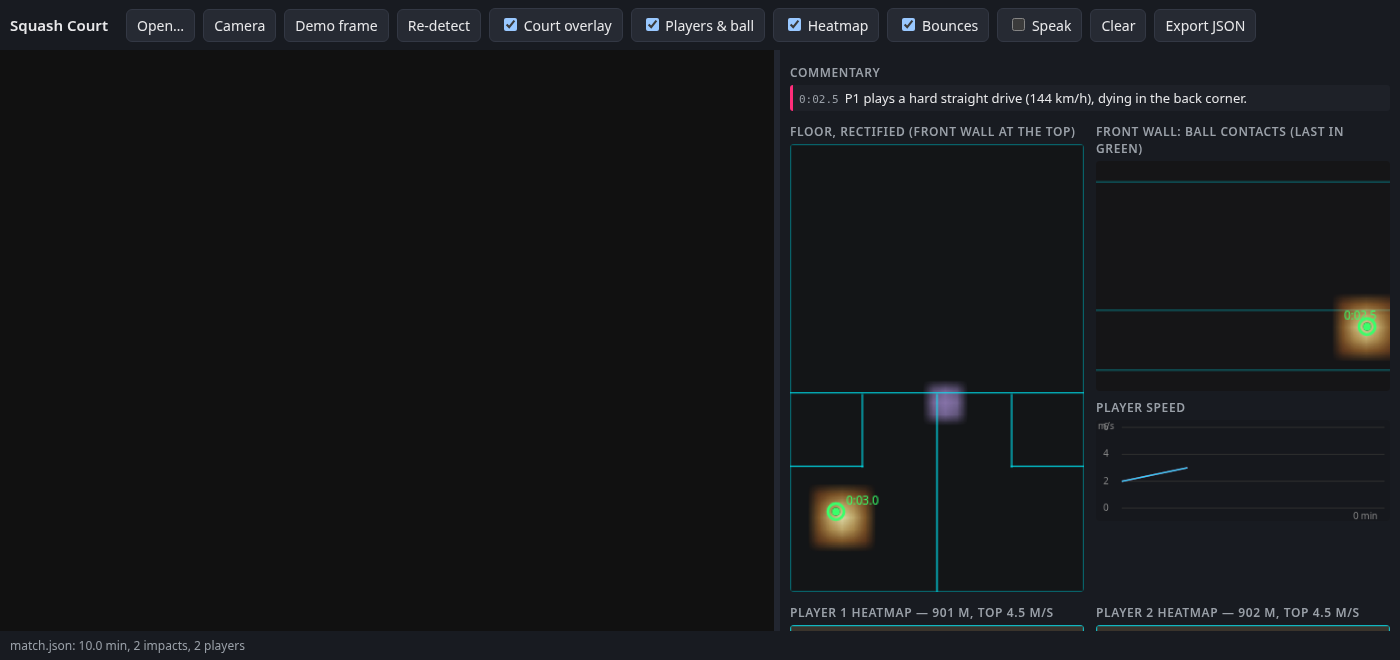
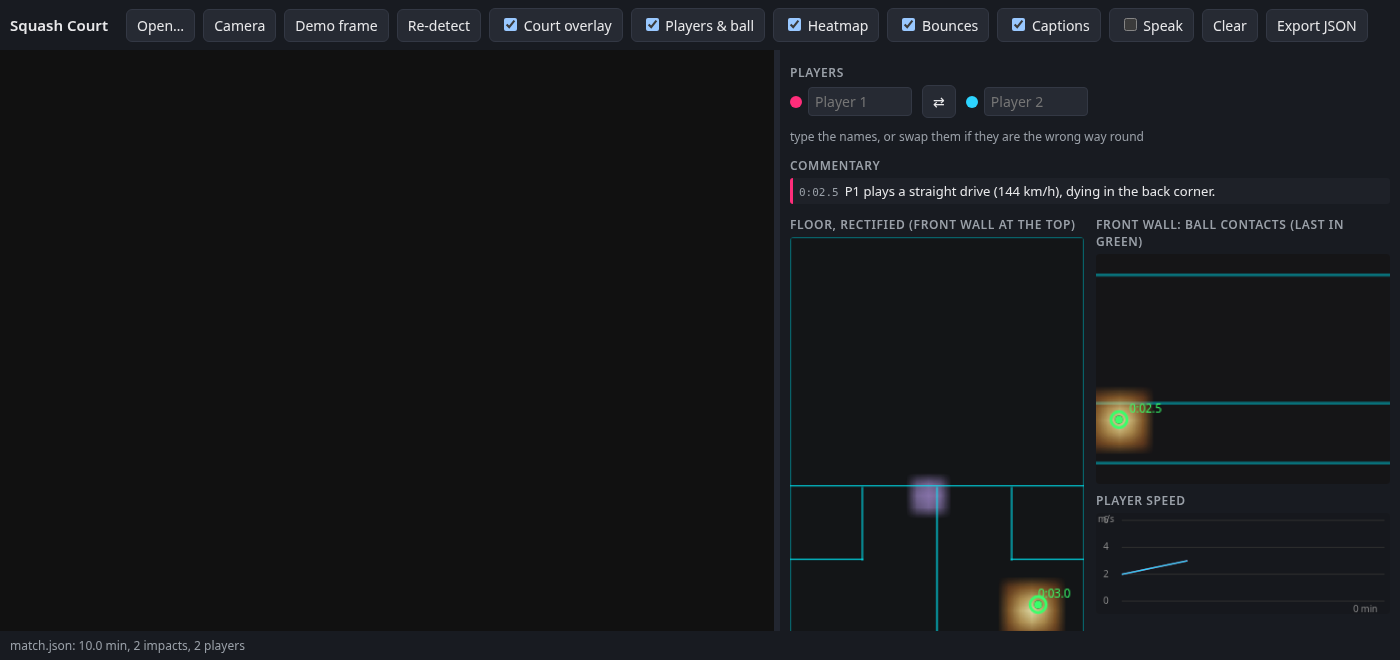
Squash Court: player names, commentary captions, time slider, unmirrored plan

diff --git a/vibes/squash-court/app.js b/vibes/squash-court/app.js
@@ -31,7 +31,7 @@ const S = {
   live: false, procFrame: null, sound: true,
   // players and ball (rally.js in the worker): players [{ id, X, seen, occluded, box }], the live
   // ball pixel, and fitted flights { t0, t1, pts: [{ t, X }], uv, impacts, labels, speed }
-  showRally: true, showHeat: true, showBounces: true, bounces: new Bounces(), comm: new Commentary(), feed: [], speak: false, moveSaid: {}, players: [], ball: null, ballTrail: [], flights: [], rallyMs: {},
+  showRally: true, showHeat: true, showBounces: true, captions: true, bounces: new Bounces(), comm: new Commentary(), feed: [], speak: false, moveSaid: {}, players: [], ball: null, ballTrail: [], flights: [], rallyMs: {},
 };
 // Per player: recent positions (speed), distance covered and time spent per 25 cm floor cell
 // (the heatmap). Kept in the page, fed by the players worker's tracked positions.
@@ -80,7 +80,15 @@ function playersAt(t, X) {
 // Shots are (re)built from the main camera's flights whenever the flight window changes; each
 // keeps its id, so a refit rewrites its line in place instead of adding another. Shots with
 // little evidence behind them (an inferred wall contact and few frames) are shown faded.
-const nameOf = (id) => `P${id}`;
+// Names typed in the Players panel (kept per video file); P1 / P2 until then.
+S.names = { 1: '', 2: '' };
+const nameOf = (id) => (S.names[id] || '').trim() || `P${id}`;
+function setNames(n, note) {
+  S.names = { 1: n[1] ?? '', 2: n[2] ?? '' }; for (const i of [1, 2]) if ($(`name${i}`).value !== S.names[i]) $(`name${i}`).value = S.names[i]; // never under the cursor while typing
+  if (note != null) $('nameNote').textContent = note;
+  if (S.srcName) localStorage.setItem('squashNames:' + S.srcName, JSON.stringify(S.names));
+  renderFeed(); draw();
+}
 function comment() {
   const fl = S.flights.filter((f) => mainView(f.cam));
   if (!fl.length) return;
@@ -88,9 +96,9 @@ function comment() {
   for (const s of changed) {
     if (s.quality < 2) continue;
     const text = describe(s, nameOf), o = S.feed.find((e) => e.id === s.id);
-    if (o) { if (o.text !== text) { o.text = text; o.player = s.player; o.sure = s.quality >= 3; } continue; }
-    S.feed.push({ id: s.id, t: s.t, text, player: s.player, sure: s.quality >= 3, fresh: true });
-    if (S.speak && s.quality >= 3) say(text);
+    if (o) { o.shot = s; o.player = s.player; o.sure = s.quality >= 3; continue; }
+    S.feed.push({ id: s.id, t: s.t, shot: s, player: s.player, sure: s.quality >= 3, fresh: true });
+    if (s.quality >= 3) { if (S.speak) say(text); caption(text); }
   }
   S.feed.sort((a, b) => b.t - a.t); if (S.feed.length > 200) S.feed.length = 200;
   renderFeed();
@@ -100,10 +108,11 @@ function commentMoves() {
   for (const p of S.players) {
     if (!p.seen) continue;
     const st = S.stats[p.id], text = st && movement(p.id, p.X, st.speed, nameOf); if (!text) continue;
+    const id = p.id, X = p.X.slice(), v = st.speed, mk = () => movement(id, X, v, nameOf);
     const key = p.id + text.split(' corner')[0].slice(-10);
     if (t - (S.moveSaid[key] ?? -Infinity) < 6) continue; // once per corner visit
     S.moveSaid[key] = t;
-    S.feed.unshift({ id: `m${p.id}-${t}`, t, text, player: p.id, sure: true, fresh: true, move: true });
+    S.feed.unshift({ id: `m${p.id}-${t}`, t, mk, player: p.id, sure: true, fresh: true, move: true }); caption(text);
   }
   renderFeed();
 }
@@ -113,8 +122,15 @@ function renderFeed() {
   el.replaceChildren(...S.feed.slice(0, 60).map((e) => {
     const li = document.createElement('li'); li.className = (e.fresh ? 'new' : '') + (e.sure ? '' : ' maybe'); e.fresh = false;
     li.style.borderLeftColor = e.player ? PCOL[(e.player - 1) % PCOL.length] : '#666';
-    const t = document.createElement('span'); t.className = 't'; t.textContent = clock(e.t); li.append(t, e.text); return li;
+    const t = document.createElement('span'); t.className = 't'; t.textContent = clock(e.t); li.append(t, e.shot ? describe(e.shot, nameOf) : e.mk ? e.mk() : e.text); return li;
   }));
+}
+// Captions: the newest commentary line over the video for a few seconds (the feed keeps them all).
+let ccTimer = 0;
+function caption(text) {
+  if (!S.captions || !S.live) return;
+  const el = $('cc'); el.textContent = text; el.classList.remove('off');
+  clearTimeout(ccTimer); ccTimer = setTimeout(() => el.classList.add('off'), Math.max(3500, 60 * text.length));
 }
 function say(text) {
   if (!('speechSynthesis' in window)) return;
@@ -261,8 +277,9 @@ const pcol = (p) => PCOL[(p.id - 1) % PCOL.length];
 function useImage(el, w, h) {
   stopLive(); S.src = el; S.srcW = w; S.srcH = h; S.cam = null; S.picks = []; clearRally(); fitStage(); draw(); analyse('detect');
 }
+function loadNames() { let n = null; try { n = JSON.parse(localStorage.getItem('squashNames:' + S.srcName) || 'null'); } catch {} setNames(n ?? { 1: '', 2: '' }, n ? 'saved for this video' : 'type the names, or swap them if they are the wrong way round'); }
 function loadFile(file) {
-  const url = URL.createObjectURL(file);
+  const url = URL.createObjectURL(file); S.srcName = file.name;
   if (file.type.startsWith('video/')) {
     const v = document.createElement('video'); v.src = url; v.muted = !S.sound; v.playsInline = true; v.loop = true;
     v.onloadeddata = () => { useVideo(v); listen(url, v); }; return;
@@ -273,7 +290,12 @@ function loadFile(file) {
 function useVideo(v) {
   stopLive(); S.src = v; S.srcW = v.videoWidth; S.srcH = v.videoHeight; S.cam = null; S.picks = []; clearRally(); S.audio = null; S.match = null; S.live = true; fitStage();
   // with sound if wanted; a browser that refuses unmuted playback without a fresh gesture gets it muted
-  S.frameCb = watchFrames(v);
+  S.frameCb = watchFrames(v); if (!v.srcObject) loadNames();
+  // time slider: seeking starts the ball and the players' tracks afresh (a jump is not a flight)
+  const sc = $('scrub'); sc.hidden = !!v.srcObject || !isFinite(v.duration);
+  $('seek').max = v.duration || 1;
+  v.onseeking = () => { for (const R of rallyW) R.reset = true; S.ballTrail = []; S.ball = null; S.fails = 0; };
+  v.ondurationchange = () => { $('seek').max = v.duration || 1; sc.hidden = !!v.srcObject || !isFinite(v.duration); };
   v.play().catch(() => { v.muted = true; soundLabel(); v.play().catch(() => {}); });
   $('play').hidden = false; $('play').textContent = 'Pause';
   $('sound').hidden = !!v.srcObject; soundLabel();
@@ -287,12 +309,13 @@ async function useCamera() {
   } catch (e) { status(`camera: ${e.message}`); }
 }
 function stopLive() {
-  S.live = false; $('play').hidden = true; $('sound').hidden = true;
+  S.live = false; $('play').hidden = true; $('sound').hidden = true; $('scrub').hidden = true; $('cc').classList.add('off');
   if (S.src instanceof HTMLVideoElement) { S.src.pause(); S.src.srcObject?.getTracks().forEach((t) => t.stop()); }
 }
 function loop() {
   if (!S.live) return;
   draw();
+  if (!S.seeking && S.src instanceof HTMLVideoElement) { $('seek').value = S.src.currentTime; $('tlabel').textContent = `${clock(S.src.currentTime).slice(0, -2)} / ${clock(S.src.duration || 0).slice(0, -2)}`; }
   // a paused video is analysed once, not over and over
   const t = S.src.currentTime, fresh = !S.src.paused || t !== S.lastT || (!S.okay && S.fails < 3);
   if (!S.busy && S.src.readyState >= 2 && fresh) { S.lastT = t; analyse(S.cam && S.fails < 3 ? 'track' : 'detect'); }
@@ -372,7 +395,7 @@ function drawRallyStage(map, dpr) {
     for (let a = 0; a <= 24; a++) { const u = c.project([p.X[0] + 0.28 * Math.cos(a / 24 * 2 * Math.PI), p.X[1] + 0.28 * Math.sin(a / 24 * 2 * Math.PI), 0]); if (!(u[2] > 0)) continue; const [x, y] = map(u); first ? sctx.moveTo(x, y) : sctx.lineTo(x, y); first = false; }
     sctx.stroke(); sctx.setLineDash([]);
     const u = c.project([p.X[0], p.X[1], 0]); if (!(u[2] > 0)) continue; const [x, y] = map(u);
-    sctx.font = `${12 * dpr}px system-ui`; sctx.fillStyle = '#000a'; const sp = S.stats[p.id]?.speed, s = `P${p.id}  ${p.X[0].toFixed(2)}, ${p.X[1].toFixed(2)} m${sp > 0.3 ? `  ${sp.toFixed(1)} m/s` : ''}`;
+    sctx.font = `${12 * dpr}px system-ui`; sctx.fillStyle = '#000a'; const sp = S.stats[p.id]?.speed, s = `${nameOf(p.id)}  ${p.X[0].toFixed(2)}, ${p.X[1].toFixed(2)} m${sp > 0.3 ? `  ${sp.toFixed(1)} m/s` : ''}`;
     sctx.fillRect(x + 14 * dpr, y - 6 * dpr, sctx.measureText(s).width + 6 * dpr, 16 * dpr); sctx.fillStyle = pcol(p); sctx.fillText(s, x + 17 * dpr, y + 6 * dpr);
   }
   sctx.lineWidth = 2.5 * dpr;
@@ -404,27 +427,27 @@ function rectify(ctx, cnv, toWorld) {
 }
 function drawPlan() {
   const s = plan.width / CW; // px per metre; y down the court
-  rectify(pctx, plan, (x, y) => [x / s, y / s, 0]);
+  rectify(pctx, plan, (x, y) => [CW - x / s, y / s, 0]); // seen from above, facing the front wall: the right wall (x = 0) on the right
   pctx.strokeStyle = 'rgba(0,240,255,0.8)'; pctx.lineWidth = 1;
-  for (const l of MODEL.lines) if (l.kind === 'floor') { pctx.beginPath(); pctx.moveTo(l.a[0] * s, l.a[1] * s); pctx.lineTo(l.b[0] * s, l.b[1] * s); pctx.stroke(); }
+  for (const l of MODEL.lines) if (l.kind === 'floor') { pctx.beginPath(); pctx.moveTo((CW - l.a[0]) * s, l.a[1] * s); pctx.lineTo((CW - l.b[0]) * s, l.b[1] * s); pctx.stroke(); }
   pctx.strokeRect(0.5, 0.5, plan.width - 1, plan.height - 1);
-  for (const p of S.picks) if (p.surface === 'floor') { pctx.fillStyle = '#ff2d7a'; pctx.beginPath(); pctx.arc(p.X[0] * s, p.X[1] * s, 4, 0, 7); pctx.fill(); }
+  for (const p of S.picks) if (p.surface === 'floor') { pctx.fillStyle = '#ff2d7a'; pctx.beginPath(); pctx.arc((CW - p.X[0]) * s, p.X[1] * s, 4, 0, 7); pctx.fill(); }
   if (S.showHeat) drawHeat(s);
-  if (S.showBounces) { const F = S.bounces.on('floor'); drawBounces(pctx, F, CW, CL, s, (x, y) => [x * s, y * s], !S.showHeat, (m) => [m.X[0], m.X[1]]); if (F.length) { const L = F[F.length - 1]; ringLast(pctx, L, L.X[0] * s, L.X[1] * s); } }
+  if (S.showBounces) { const F = S.bounces.on('floor'); drawBounces(pctx, F, CW, CL, s, (x, y) => [(CW - x) * s, y * s], !S.showHeat, (m) => [m.X[0], m.X[1]]); if (F.length) { const L = F[F.length - 1]; ringLast(pctx, L, (CW - L.X[0]) * s, L.X[1] * s); } }
   if (S.showRally) {
     // the ball's ground track (shadow), floor bounces, players
     for (const f of recentFlights()) {
       pctx.strokeStyle = 'rgba(255,230,0,0.9)'; pctx.lineWidth = 1.5; pctx.beginPath();
-      f.pts.forEach((q, i) => (i ? pctx.lineTo(q.X[0] * s, q.X[1] * s) : pctx.moveTo(q.X[0] * s, q.X[1] * s))); pctx.stroke();
-      for (const m of f.impacts) { pctx.fillStyle = '#ff8a00'; pctx.beginPath(); pctx.arc(m.X[0] * s, m.X[1] * s, 3, 0, 7); pctx.fill(); }
+      f.pts.forEach((q, i) => (i ? pctx.lineTo((CW - q.X[0]) * s, q.X[1] * s) : pctx.moveTo((CW - q.X[0]) * s, q.X[1] * s))); pctx.stroke();
+      for (const m of f.impacts) { pctx.fillStyle = '#ff8a00'; pctx.beginPath(); pctx.arc((CW - m.X[0]) * s, m.X[1] * s, 3, 0, 7); pctx.fill(); }
     }
     for (const p of S.players) {
-      pctx.fillStyle = pcol(p); pctx.globalAlpha = p.seen ? 1 : 0.5; pctx.beginPath(); pctx.arc(p.X[0] * s, p.X[1] * s, 6, 0, 7); pctx.fill(); pctx.globalAlpha = 1;
-      pctx.fillStyle = '#000'; pctx.font = 'bold 9px system-ui'; pctx.fillText(String(p.id), p.X[0] * s - 2.5, p.X[1] * s + 3);
+      pctx.fillStyle = pcol(p); pctx.globalAlpha = p.seen ? 1 : 0.5; pctx.beginPath(); pctx.arc((CW - p.X[0]) * s, p.X[1] * s, 6, 0, 7); pctx.fill(); pctx.globalAlpha = 1;
+      pctx.fillStyle = '#000'; pctx.font = 'bold 9px system-ui'; pctx.fillText(String(p.id), (CW - p.X[0]) * s - 2.5, p.X[1] * s + 3);
     }
   }
   // where the camera stands, if it is on the plan
-  if (S.cam) { const C = S.cam.C; pctx.fillStyle = '#ffe600'; pctx.fillText(C[1] > CL ? `▼ camera ${(C[1] - CL).toFixed(1)} m behind` : '● camera', Math.max(4, Math.min(plan.width - 90, C[0] * s - 20)), Math.min(plan.height - 6, C[1] * s)); }
+  if (S.cam) { const C = S.cam.C; pctx.fillStyle = '#ffe600'; pctx.fillText(C[1] > CL ? `▼ camera ${(C[1] - CL).toFixed(1)} m behind` : '● camera', Math.max(4, Math.min(plan.width - 90, (CW - C[0]) * s - 20)), Math.min(plan.height - 6, C[1] * s)); }
 }
 // Heatmap: time each player spent per 25 cm cell, blurred, in the player's colour, each scaled to
 // its own busiest cell. Drawn small and scaled up, so the canvas smooths it.
@@ -444,10 +467,10 @@ function drawHeat(s) {
   }
   hc.putImageData(img, 0, 0);
   if (ids.length) { pctx.fillStyle = 'rgba(10,12,16,0.55)'; pctx.fillRect(0, 0, plan.width, plan.height); } // dim the floor so the heat reads
-  pctx.save(); pctx.imageSmoothingEnabled = true; pctx.globalAlpha = 0.9; pctx.drawImage(heatCnv, 0, 0, HX * HM * s, HY * HM * s); pctx.restore();
+  pctx.save(); pctx.imageSmoothingEnabled = true; pctx.globalAlpha = 0.9; pctx.translate(CW * s, 0); pctx.scale(-1, 1); pctx.drawImage(heatCnv, 0, 0, HX * HM * s, HY * HM * s); pctx.restore();
   // the court lines again on top
   pctx.strokeStyle = 'rgba(0,240,255,0.8)'; pctx.lineWidth = 1;
-  for (const l of MODEL.lines) if (l.kind === 'floor') { pctx.beginPath(); pctx.moveTo(l.a[0] * s, l.a[1] * s); pctx.lineTo(l.b[0] * s, l.b[1] * s); pctx.stroke(); }
+  for (const l of MODEL.lines) if (l.kind === 'floor') { pctx.beginPath(); pctx.moveTo((CW - l.a[0]) * s, l.a[1] * s); pctx.lineTo((CW - l.b[0]) * s, l.b[1] * s); pctx.stroke(); }
 }
 // Ball bounces: a heat ramp (clear → orange → pale yellow) scaled to the busiest cell, and a dot per
 // bounce (a ring when it was inferred from a flight ending on the floor rather than fitted inside
@@ -498,7 +521,8 @@ function useMatch(M, name) {
   for (const p of M.players) { const st = statFor(p.id); st.heat = Float32Array.from(p.heatmap.seconds); st.dist = p.distance; st.time = p.seconds; st.top = p.topSpeed; st.series = p.speed.map(([t, v]) => ({ t, v })); }
   S.bounces.list = M.bounces.map((m) => ({ t: m.t, X: [m.x, m.y, m.z], plane: m.plane, inferred: m.inferred, sound: m.sound, player: m.player }));
   S.comm.shots = (M.shots ?? []).map((s, i) => ({ ...s, id: i + 1, measured: s.quality >= 4 }));
-  S.feed = (M.shots ?? []).filter((s) => s.quality >= 2).map((s, i) => ({ id: i + 1, t: s.t, text: s.text, player: s.player, sure: s.quality >= 3 })).reverse(); renderFeed();
+  S.feed = (M.shots ?? []).filter((s) => s.quality >= 2).map((s, i) => ({ id: i + 1, t: s.t, text: s.text, shot: s.kind && s.front ? s : null, player: s.player, sure: s.quality >= 3 })).reverse();
+  S.srcName = 'match:' + M.source; loadNames(); renderFeed();
   status(`${name}: ${(M.duration / 60).toFixed(1)} min, ${M.bounces.length} impacts, ${M.players.length} players`); draw();
 }
 // One player's heatmap on a plain court: time per 25 cm cell, in the player's colour.
@@ -512,13 +536,13 @@ function drawPlayerHeat(cnv, id) {
     const hc = document.createElement('canvas'); hc.width = h.nx; hc.height = h.ny; const hx = hc.getContext('2d'), img = hx.createImageData(h.nx, h.ny);
     const rgb = [1, 3, 5].map((i) => parseInt(PCOL[(id - 1) % PCOL.length].slice(i, i + 2), 16));
     for (let i = 0; i < B.length; i++) { const a = B[i] / mx; if (a < 0.03) continue; const o = i * 4; img.data[o] = rgb[0]; img.data[o + 1] = rgb[1]; img.data[o + 2] = rgb[2]; img.data[o + 3] = Math.min(255, 40 + 215 * a); }
-    hx.putImageData(img, 0, 0); g.save(); g.imageSmoothingEnabled = true; g.drawImage(hc, 0, 0, h.nx * HM * s, h.ny * HM * s); g.restore();
-    if (title) title.textContent = `Player ${id} heatmap — ${st.dist.toFixed(0)} m, top ${st.top.toFixed(1)} m/s`;
-  } else if (title) title.textContent = `Player ${id} heatmap`;
+    hx.putImageData(img, 0, 0); g.save(); g.imageSmoothingEnabled = true; g.translate(CW * s, 0); g.scale(-1, 1); g.drawImage(hc, 0, 0, h.nx * HM * s, h.ny * HM * s); g.restore();
+    if (title) title.textContent = `${nameOf(id)} heatmap — ${st.dist.toFixed(0)} m, top ${st.top.toFixed(1)} m/s`;
+  } else if (title) title.textContent = `${nameOf(id)} heatmap`;
   g.strokeStyle = 'rgba(0,240,255,0.7)'; g.lineWidth = 1;
-  for (const l of MODEL.lines) if (l.kind === 'floor') { g.beginPath(); g.moveTo(l.a[0] * s, l.a[1] * s); g.lineTo(l.b[0] * s, l.b[1] * s); g.stroke(); }
+  for (const l of MODEL.lines) if (l.kind === 'floor') { g.beginPath(); g.moveTo((CW - l.a[0]) * s, l.a[1] * s); g.lineTo((CW - l.b[0]) * s, l.b[1] * s); g.stroke(); }
   g.strokeRect(0.5, 0.5, cnv.width - 1, cnv.height - 1);
-  const p = S.players.find((q) => q.id === id); if (p) { g.fillStyle = '#fff'; g.beginPath(); g.arc(p.X[0] * s, p.X[1] * s, 4, 0, 7); g.fill(); }
+  const p = S.players.find((q) => q.id === id); if (p) { g.fillStyle = '#fff'; g.beginPath(); g.arc((CW - p.X[0]) * s, p.X[1] * s, 4, 0, 7); g.fill(); }
 }
 function blurHeat(a, nx, ny) { let g = Float32Array.from(a); for (let p = 0; p < 2; p++) { const o = new Float32Array(g.length); for (let y = 0; y < ny; y++) for (let x = 0; x < nx; x++) { let v = 0, w = 0; for (let j = -1; j <= 1; j++) for (let i = -1; i <= 1; i++) { const X = x + i, Y = y + j; if (X < 0 || Y < 0 || X >= nx || Y >= ny) continue; const k = (i ? 0.5 : 1) * (j ? 0.5 : 1); v += g[Y * nx + X] * k; w += k; } o[y * nx + x] = v / w; } g = o; } return g; }
 // the most recent mark of a list, ringed in green with its time
@@ -529,14 +553,14 @@ function ringLast(ctx, m, px, py) {
 }
 function drawWall() {
   const s = wall.width / CW; // front wall, 0 … 5 m high
-  rectify(wctx, wall, (x, y) => [x / s, 0, (wall.height - y) / s]);
+  rectify(wctx, wall, (x, y) => [CW - x / s, 0, (wall.height - y) / s]); // facing it from the court: x = 0 on the right
   wctx.strokeStyle = 'rgba(0,240,255,0.8)';
   for (const l of MODEL.lines) if (l.kind === 'front') { const y = wall.height - l.a[2] * s; wctx.beginPath(); wctx.moveTo(0, y); wctx.lineTo(wall.width, y); wctx.stroke(); }
-  for (const p of S.picks) if (p.surface === 'front wall') { wctx.fillStyle = '#ff2d7a'; wctx.beginPath(); wctx.arc(p.X[0] * s, wall.height - p.X[2] * s, 4, 0, 7); wctx.fill(); }
+  for (const p of S.picks) if (p.surface === 'front wall') { wctx.fillStyle = '#ff2d7a'; wctx.beginPath(); wctx.arc((CW - p.X[0]) * s, wall.height - p.X[2] * s, 4, 0, 7); wctx.fill(); }
   // every front-wall contact (one per shot), coloured by hitter; the last one in green
   const C = S.showBounces ? contacts() : [];
-  if (C.length) { drawBounces(wctx, C, CW, wall.height / s, s, (x, z) => [x * s, wall.height - z * s], true, (m) => [m.X[0], m.X[2]]); const L = C[C.length - 1]; ringLast(wctx, L, L.X[0] * s, wall.height - L.X[2] * s); }
-  if (S.showRally) for (const f of recentFlights()) for (const m of f.impacts) if (m.plane === 'front') { wctx.fillStyle = '#ff8a00'; wctx.beginPath(); wctx.arc(m.X[0] * s, wall.height - m.X[2] * s, 4, 0, 7); wctx.fill(); }
+  if (C.length) { drawBounces(wctx, C, CW, wall.height / s, s, (x, z) => [(CW - x) * s, wall.height - z * s], true, (m) => [m.X[0], m.X[2]]); const L = C[C.length - 1]; ringLast(wctx, L, (CW - L.X[0]) * s, wall.height - L.X[2] * s); }
+  if (S.showRally) for (const f of recentFlights()) for (const m of f.impacts) if (m.plane === 'front') { wctx.fillStyle = '#ff8a00'; wctx.beginPath(); wctx.arc((CW - m.X[0]) * s, wall.height - m.X[2] * s, 4, 0, 7); wctx.fill(); }
 }
 // 3D overview rendered with the same camera class: court box, lines, the fitted camera's frustum.
 function draw3d() {
@@ -570,9 +594,9 @@ function readout() {
   if (S.match) {
     const M = S.match, fl = S.bounces.on('floor'), fr = S.bounces.on('front');
     el.textContent = [`match    ${M.source} — ${(M.duration / 60).toFixed(1)} min, court seen ${(M.courtSeconds / 60).toFixed(1)} min`,
-      ...M.players.map((p) => `player ${p.id} ${p.distance.toFixed(0)} m in ${(p.seconds / 60).toFixed(1)} min, top ${p.topSpeed.toFixed(1)} m/s${p.colour ? `, shirt rgb(${p.colour.map(Math.round).join(', ')})` : ''}`),
+      ...M.players.map((p) => `${nameOf(p.id).padEnd(8)} ${p.distance.toFixed(0)} m in ${(p.seconds / 60).toFixed(1)} min, top ${p.topSpeed.toFixed(1)} m/s${p.colour ? `, shirt rgb(${p.colour.map(Math.round).join(', ')})` : ''}`),
       `bounces  ${fl.length} on the floor (${fl.filter((m) => m.X[1] > 5.44).length} behind the short line), ${fr.length} on the front wall, ${S.bounces.list.filter((m) => m.sound).length} found by ear`,
-      ...M.players.map((p) => `         P${p.id} hit ${S.bounces.list.filter((m) => m.player === p.id).length}`)].join('\n');
+      ...M.players.map((p) => `         ${nameOf(p.id)} hit ${S.bounces.list.filter((m) => m.player === p.id).length}`)].join('\n');
     return;
   }
   if (!c) { el.textContent = S.src ? 'looking for the court…' : 'Open a photo or video of a squash court (or a match .json from tools/match.mjs), use the camera, or try a demo frame.'; return; }
@@ -587,11 +611,11 @@ function readout() {
     `time     ${S.ms ? Math.round(S.ms.wall) + ' ms' : ''}${hz ? `   tracking ${hz.toFixed(1)} fps` : ''}${S.live && S.path ? `   ${S.path}${S.mount === 'free' ? ', camera moving' : ', fixed mount'}` : ''}`,
   ];
   if (S.showRally || S.match) {
-    for (const p of S.players) { const st = S.stats[p.id]; lines.push(`player ${p.id} x ${p.X[0].toFixed(2)}  y ${p.X[1].toFixed(2)} m${p.occluded ? '  (feet hidden: from the head)' : ''}${p.seen ? '' : '  (coasting)'}`); if (st && S.live) lines.push(`         ${kmh(st.speed)}, top ${st.top.toFixed(1)} m/s, ${st.dist.toFixed(0)} m covered in ${st.time.toFixed(0)} s`); }
+    for (const p of S.players) { const st = S.stats[p.id]; lines.push(`${nameOf(p.id).padEnd(8)} x ${p.X[0].toFixed(2)}  y ${p.X[1].toFixed(2)} m${p.occluded ? '  (feet hidden: from the head)' : ''}${p.seen ? '' : '  (coasting)'}`); if (st && S.live) lines.push(`         ${kmh(st.speed)}, top ${st.top.toFixed(1)} m/s, ${st.dist.toFixed(0)} m covered in ${st.time.toFixed(0)} s`); }
     const bn = ballNow(); if (bn) lines.push(`ball now ${kmh(bn.speed)}`);
     if (S.bounces.list.length) { const fl = S.bounces.on('floor'), fr = S.bounces.on('front'); lines.push(`bounces  ${fl.length} on the floor${fl.length ? ` (${fl.filter((m) => m.X[1] > 5.44).length} behind the short line)` : ''}, ${fr.length} on the front wall`);
       const by = (id) => S.bounces.list.filter((m) => m.player === id && (m.plane === 'floor' || m.plane === 'front')).length, ids = [...new Set(S.bounces.list.map((m) => m.player).filter(Boolean))].sort();
-      if (ids.length) lines.push(`         shots by ${ids.map((id) => `P${id} ${by(id)}`).join(', ')}, ${S.bounces.list.filter((m) => !m.player).length} unknown`); }
+      if (ids.length) lines.push(`         shots by ${ids.map((id) => `${nameOf(id)} ${by(id)}`).join(', ')}, ${S.bounces.list.filter((m) => !m.player).length} unknown`); }
     if (S.audio) lines.push(S.audio.error ? `sound    not decoded (${S.audio.error})` : `sound    ${S.audio.on.length} impacts heard${S.audio.offset != null ? `, audio ${Math.round(S.audio.offset * 1000)} ms after picture (${S.audio.matched} matched, ${S.audio.chance} by chance)` : ', delay not known yet'}, ${S.bounces.list.filter((m) => m.sound).length} bounces found by ear`);
     const f = recentFlights().slice(-1)[0];
     if (f) { const a = f.pts[0].X, e = f.pts[f.pts.length - 1].X, v = (X) => `${X[0].toFixed(1)}, ${X[1].toFixed(1)}, ${X[2].toFixed(1)}`; lines.push(`ball     ${f.t0.toFixed(2)}–${f.t1.toFixed(2)} s  (${v(a)}) → (${v(e)}) m, ${(f.speed * 3.6).toFixed(0)} km/h off the hit${f.impacts.length ? '  hit ' + f.impacts.map((m) => m.plane).join(', ') : ''}`); }
@@ -636,6 +660,12 @@ $('export').onclick = exportJSON;
 // Clear: measured points and everything gathered so far (heatmaps, bounces, speeds, commentary);
 // a playing video starts gathering again from the current frame
 $('clear').onclick = () => { S.picks = []; const m = S.match; clearRally(); S.match = null; if (m && !S.src) S.cam = null; status('cleared'); draw(); };
+$('seek').addEventListener('input', (e) => { const v = S.src; if (!(v instanceof HTMLVideoElement)) return; S.seeking = true; v.currentTime = +e.target.value; $('tlabel').textContent = `${clock(v.currentTime).slice(0, -2)} / ${clock(v.duration || 0).slice(0, -2)}`; });
+$('seek').addEventListener('change', () => { S.seeking = false; });
+$('seek').addEventListener('pointerup', () => { S.seeking = false; });
+$('cap').onchange = (e) => { S.captions = e.target.checked; if (!S.captions) $('cc').classList.add('off'); };
+for (const i of [1, 2]) $(`name${i}`).addEventListener('input', (e) => { S.names[i] = e.target.value; setNames(S.names, ''); });
+$('swapNames').onclick = () => setNames({ 1: S.names[2], 2: S.names[1] }, 'swapped');
 $('speak').onchange = (e) => { S.speak = e.target.checked; if (!S.speak && 'speechSynthesis' in window) speechSynthesis.cancel(); };
 { // drag the side panel's edge to resize it (kept across reloads)
   const grip = $('grip'), set = (w) => { w = Math.max(300, Math.min(innerWidth - 320, w)); document.body.style.setProperty('--side', `${w}px`); localStorage.setItem('squashSide', w); };

diff --git a/vibes/squash-court/index.html b/vibes/squash-court/index.html
@@ -27,6 +27,17 @@
   #feed li.new { animation: flash 1.2s ease-out; }
   #feed li .t { color: var(--dim); font: 11px ui-monospace, monospace; margin-right: 6px; }
   #feed li.maybe { opacity: 0.6; }
+  #scrub { position: absolute; left: 0; right: 0; bottom: 0; display: flex; gap: 8px; align-items: center; padding: 6px 10px; background: linear-gradient(transparent, rgba(0,0,0,.75)); }
+  #scrub[hidden] { display: none; }
+  #seek { flex: 1; accent-color: var(--acc); }
+  #tlabel { font: 12px ui-monospace, monospace; color: #ddd; min-width: 11ch; text-align: right; }
+  #cc { position: absolute; left: 50%; bottom: 44px; transform: translateX(-50%); max-width: 80%; padding: 6px 12px; background: rgba(0,0,0,.78); color: #fff; font: 600 18px/1.35 system-ui; border-radius: 4px; text-align: center; pointer-events: none; transition: opacity .3s; }
+  #cc.off { opacity: 0; }
+  .names { display: flex; gap: 10px; flex-wrap: wrap; align-items: center; }
+  .names label { display: flex; gap: 6px; align-items: center; }
+  .names input { width: 13ch; background: #262a33; color: var(--fg); border: 1px solid #333844; border-radius: 4px; padding: 4px 6px; font: inherit; }
+  .sw { width: 12px; height: 12px; border-radius: 50%; display: inline-block; }
+  #nameNote { color: var(--dim); font-size: 12px; }
   @keyframes flash { from { background: #34404f; } to { background: #1e2128; } }
   aside h2 { font-size: 12px; text-transform: uppercase; letter-spacing: .05em; color: var(--dim); margin: 4px 0 0; font-weight: 600; }
   canvas.panel { width: 100%; background: #1e1e1e; border-radius: 4px; display: block; image-rendering: auto; }
@@ -52,13 +63,22 @@
   <label class="chk" title="Players' feet and the ball, in metres"><input id="rally" type="checkbox" checked> Players &amp; ball</label>
   <label class="chk" title="Where each player spent their time, on the floor plan"><input id="heat" type="checkbox" checked> Heatmap</label>
   <label class="chk" title="Where the ball bounced on the floor and hit the front wall"><input id="bounces" type="checkbox" checked> Bounces</label>
+  <label class="chk" title="Show the commentary as captions over the video"><input id="cap" type="checkbox" checked> Captions</label>
   <label class="chk" title="Read the commentary aloud"><input id="speak" type="checkbox"> Speak</label>
   <button id="clear" title="Clear measured points, heatmaps, bounces, speeds and commentary">Clear</button>
   <button id="export">Export JSON</button>
 </header>
-<div id="wrap"><canvas id="stage" aria-label="Frame with the fitted court drawn over it; click to measure a point on the court"></canvas></div>
+<div id="wrap"><canvas id="stage" aria-label="Frame with the fitted court drawn over it; click to measure a point on the court"></canvas>
+  <div id="cc" class="off" aria-hidden="true"></div>
+  <div id="scrub" hidden><input id="seek" type="range" min="0" max="1" step="0.04" value="0" aria-label="Video position"><span id="tlabel">0:00 / 0:00</span></div>
+</div>
 <div id="grip" role="separator" aria-orientation="vertical" aria-label="Resize the side panel" tabindex="0"></div>
 <aside>
+  <figure class="wide"><h2>Players</h2><div class="names">
+    <label><span class="sw" style="background:#ff2d7a"></span><input id="name1" placeholder="Player 1" aria-label="Player 1 name"></label>
+    <button id="swapNames" title="Swap the two names">⇄</button>
+    <label><span class="sw" style="background:#2dd4ff"></span><input id="name2" placeholder="Player 2" aria-label="Player 2 name"></label>
+    <span id="nameNote"></span></div></figure>
   <figure class="wide"><h2>Commentary</h2><ol id="feed" aria-live="polite"></ol></figure>
   <figure><h2>Floor, rectified (front wall at the top)</h2><canvas id="plan" class="panel" width="256" height="390"></canvas></figure>
   <figure><h2>Front wall: ball contacts (last in green)</h2><canvas id="wall" class="panel" width="256" height="200"></canvas>

diff --git a/vibes/squash-court/smoke.js b/vibes/squash-court/smoke.js
@@ -88,8 +88,15 @@ const check = (name, ok, extra = '') => { console.log(`${ok ? 'ok  ' : 'FAIL'} $
     check('video: bounces collected, ball fed from every video frame', bb.n[0] >= 1 && bb.n[1] >= 1 && bb.fed >= 1, `floor ${bb.n[0]}, front ${bb.n[1]}, ${bb.fed} frames to the ball worker`);
     check('video: players and ball run in their own workers', vp.n > 0 && vp.ms != null && vp.mb != null, `${vp.n} players ${JSON.stringify(vp.X)}, players ${Math.round(vp.ms)} ms, ball ${Math.round(vp.mb)} ms a frame`);
     await shot('video');
+    // the time slider seeks, and typed names reach the labels and the commentary
+    const sk = await b.evaluate(`(async()=>{const v=__sq.src,s=document.getElementById('seek');const shown=!document.getElementById('scrub').hidden;v.pause();s.value=0.5;s.dispatchEvent(new Event('input'));s.dispatchEvent(new Event('change'));await new Promise(r=>setTimeout(r,400));return {shown,t:v.currentTime,max:+s.max}})()`);
+    check('time slider seeks the video', sk.shown && Math.abs(sk.t - 0.5) < 0.1 && sk.max > 1, JSON.stringify(sk));
+    await b.evaluate(`(()=>{const i=document.getElementById('name1');i.value='Elias';i.dispatchEvent(new Event('input'));return 1})()`);
     // commentary feed fills from shots, and Clear empties heatmaps, bounces and the feed
     await b.evaluate(`(()=>{const S=__sq;S.comm.update([{t0:0.2,t1:0.9,cam:[3,17,4],impacts:[{t:0.4,X:[5.9,0.02,1.4],plane:'front'}],pts:[0.2,0.3,0.5,0.7,0.9].map((t,i)=>({t,X:[5.8,[6,3,1,3,6][i],1.2-0.2*i],V:[0,i<2?-30:20,-2]}))}],[],()=>({id:1,dist:0.3,other:3}));return 1})()`);
+    await b.evaluate(`(()=>{const S=__sq;const s=S.comm.shots[0];if(s){S.feed.push({id:s.id,t:s.t,shot:s,player:1,sure:true});}document.getElementById('name1').dispatchEvent(new Event('input'));return 1})()`);
+    const nm = await b.evaluate(`[...document.querySelectorAll('#feed li')].map(l=>l.textContent).join(' | ')`);
+    check('typed name used in the commentary', /Elias plays/.test(nm), nm.slice(0, 120));
     await b.evaluate(`document.getElementById('clear').click();1`);
     const cl = await b.evaluate(`({heat:Object.keys(__sq.stats).length,b:__sq.bounces.list.length,shots:__sq.comm.shots.length,feed:document.querySelectorAll('#feed li').length})`);
     check('Clear resets heatmaps, bounces and commentary', cl.heat === 0 && cl.b === 0 && cl.shots === 0 && cl.feed === 0, JSON.stringify(cl));

diff --git a/vibes/squash-court/commentary.js b/vibes/squash-court/commentary.js
@@ -120,7 +120,7 @@ export function describe(s, name = (id) => `P${id}`) {
   const kmh = ok ? ` (${Math.round(s.speed * 3.6)} km/h)` : '';
   let shot;
   if (k.type === 'drive') shot = `${ok && k.pace === 'hard' ? 'a hard ' : 'a '}${k.direction} drive`;
-  else if (k.type === 'lob') shot = `a ${k.direction === 'crosscourt' ? 'crosscourt' : 'straight'} lob, ${s.apex.toFixed(1)} m high`;
+  else if (k.type === 'lob') shot = `a ${k.direction === 'crosscourt' ? 'crosscourt' : 'straight'} lob${s.apex ? `, ${s.apex.toFixed(1)} m high` : ''}`;
   else if (k.type === 'drop') shot = `a drop${k.nick ? ' into the nick' : ''}, ${Math.round((s.front[2] - 0.45) * 100)} cm above the tin`;
   else if (k.type === 'kill') shot = `a kill${ok && k.pace === 'hard' ? ', hit hard' : ''}, low on the front wall`;
   else shot = 'a boast off the side wall';

diff --git a/vibes/squash-court/README.md b/vibes/squash-court/README.md
@@ -2,7 +2,7 @@
 
 Finds a squash court in a photo, a video or the live camera from its painted lines, and recovers the camera that took it: position in metres, view direction, focal length and lens distortion. From that every pixel on the floor or walls maps to court coordinates, and the floor and front wall can be shown rectified. With the camera known, it also places the players and the ball in metres. Plain JS, no dependencies, runs in a worker.
 
-Open `index.html` from any static http server (module worker), then Open… a photo or video, drop or paste one, use Camera, or press Demo frame for a synthetic frame with a known camera. Click the frame to measure a point; Export JSON writes K, R, C, the 3×4 matrix, the floor / front wall homographies, the players' positions, speeds, distance covered and heatmaps (seconds per 25 cm cell), and the ball's fitted flights with their velocities. A video plays with its sound (Sound on / off). Players & ball switches the player rings (x, y in metres), the ball's flights and their wall and floor impacts on the frame, the floor plan, the front wall and the 3D view, with each player's speed and the ball's speed in km/h; Heatmap shades the floor plan by where each player spent their time; Bounces marks every floor bounce on the floor plan and every front-wall hit on the rectified front wall, with a heat glow where they cluster, each dot in the colour of the player who hit the shot (grey: not known; a square: heard rather than seen). Player speed charts each player's speed over the last 30 s. The side panel (drag its edge to resize) shows the commentary feed, the floor plan, the front wall with every ball contact (the last one ringed in green, as is the last floor bounce), and each player's own heatmap with distance and top speed. Clear empties the measured points and everything gathered so far. Speak reads the commentary aloud. Opening a `match.json` from `tools/match.mjs` shows a whole match: both players' heatmaps, their speed over the match, every bounce.
+Open `index.html` from any static http server (module worker), then Open… a photo or video, drop or paste one, use Camera, or press Demo frame for a synthetic frame with a known camera. Click the frame to measure a point; Export JSON writes K, R, C, the 3×4 matrix, the floor / front wall homographies, the players' positions, speeds, distance covered and heatmaps (seconds per 25 cm cell), and the ball's fitted flights with their velocities. A video plays with its sound (Sound on / off). Players & ball switches the player rings (x, y in metres), the ball's flights and their wall and floor impacts on the frame, the floor plan, the front wall and the 3D view, with each player's speed and the ball's speed in km/h; Heatmap shades the floor plan by where each player spent their time; Bounces marks every floor bounce on the floor plan and every front-wall hit on the rectified front wall, with a heat glow where they cluster, each dot in the colour of the player who hit the shot (grey: not known; a square: heard rather than seen). Player speed charts each player's speed over the last 30 s. The side panel (drag its edge to resize) shows the commentary feed, the floor plan, the front wall with every ball contact (the last one ringed in green, as is the last floor bounce), and each player's own heatmap with distance and top speed. Clear empties the measured points and everything gathered so far. Players: type the two names (kept per video file; ⇄ swaps them) and every label, heatmap title and commentary line uses them. Captions shows the newest commentary line over the video, subtitle-style, while the feed keeps the full log. A video has a time slider; seeking restarts the ball and player tracks from the new position. The floor plan and the front wall are drawn the way the main camera sees the court (facing the front wall, the right wall on the right). Speak reads the commentary aloud. Opening a `match.json` from `tools/match.mjs` shows a whole match: both players' heatmaps, their speed over the match, every bounce.
 
 ## How it works
 

diff --git a/CHANGELOG.md b/CHANGELOG.md
@@ -1,6 +1,7 @@
 # Logs
 
 25 Oct 2026
+- Squash Court: player names, captions, time slider, plan the right way round. Players panel: type the names (saved per video file, ⇄ to swap), used in the stage labels, readout, heatmap titles and the commentary (lines rebuilt from their shots, so renaming rewrites the log). Captions: the newest commentary line over the video for a few seconds, the feed keeps the log. Time slider under the video; a seek restarts the ball and player tracking. Fixed the floor plan, front wall, heatmaps and `match.png` being mirrored (x = 0 is the right wall facing the front, and was drawn on the left). `node smoke.js` (20).
 - Squash Court commentary and a wider panel. Live shot commentary (`commentary.js`): each shot built around its front-wall contact (measured, or a flight carried on to / back from the wall) and named lob / drop / kill / boast / drive, straight or crosscourt, with length, tightness to the side wall and pace; corner sprints and a player pinned in a corner; lines rewritten in place when a flight is refitted, Speak to read them aloud, shots in `match.json` from `tools/match.mjs` (main camera only: flights from court-level and side cameras are left out). Side panel resizable (drag its edge), two columns: commentary feed, floor plan, front wall with every ball contact and the last one in green (last floor bounce too), each player's own heatmap with distance and top speed. Clear now also resets heatmaps, bounces, speeds and commentary. `bun test` (36), `node smoke.js` (17).
 - Squash Court: who hit it, sound, speed charts and whole matches. Bounce dots in the hitter's colour (the last front-going flight carried back to its racket sound, nearer player there). Impact sounds (`audio.js`: sharp onsets above 2 kHz) decoded from the opened video; a heard impact where a lost or not-yet-started flight would meet a surface becomes a bounce, and the audio delay is estimated from seen impacts only when it beats chance. Player speed chart (last 30 s). `tools/match.mjs`: a whole match file in parallel chunks (court tracked through cuts, players, ball, sound), players linked across cuts by shirt colour, per-player heatmap / distance / speed over time and every bounce with its hitter, `match.json` (opens in the page) and `match.png`; a 15-min PSA file in ~3 min on 30 processes. Player fixes found on whole files: the walk past a score bug must give a person's height (the bug's own bars were taken for feet, 20 % of detections at the back wall), caption-tab edges may have small gaps, the bars under a bug are masked, foreground that never moves within a camera stretch is masked, and the tin band seen level is no longer taken for a graphic. `bun test` (30), `node smoke.js` (15).
 - Squash Court ball bounces: floor bounces on the floor plan and front-wall hits on the rectified front wall, a dot per bounce and a heat glow (25 cm cells, blurred) where they cluster, Bounces toggle, counts in the readout (and how many landed behind the short line), in the JSON export. Bounces come from fitted impacts and from flights that end on the floor, kept for the whole clip (`bounces.js`). The ball worker now gets every new video frame through requestVideoFrameCallback instead of only the frames the court worker analysed, which had left gaps of several frames. `bun test` (26), `node smoke.js` (13).
